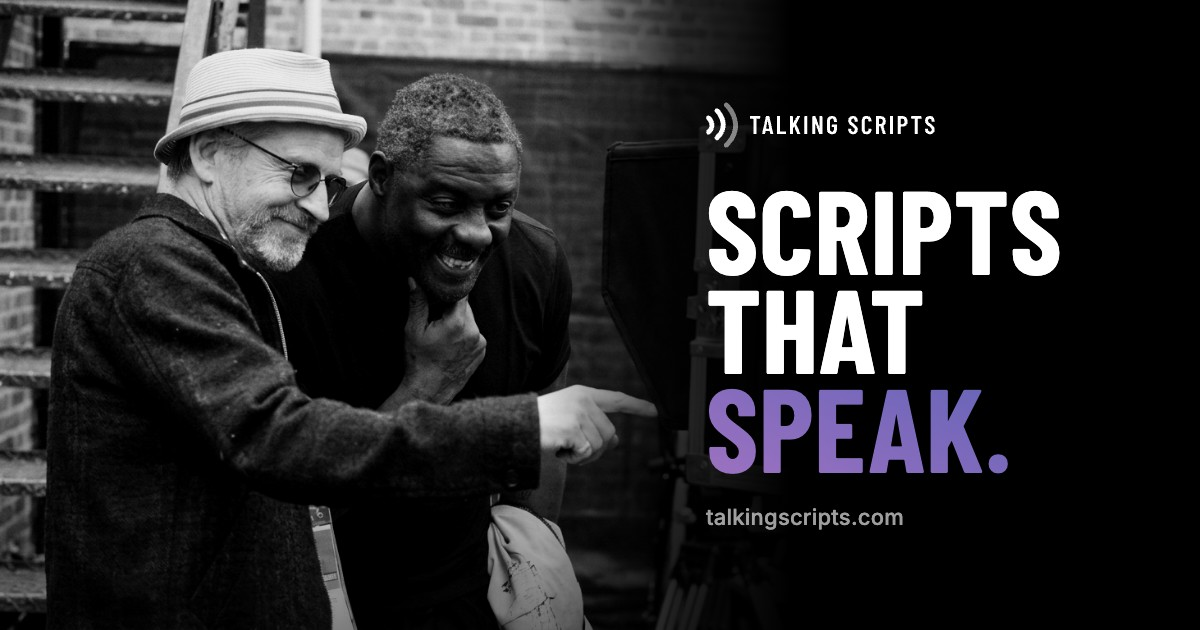
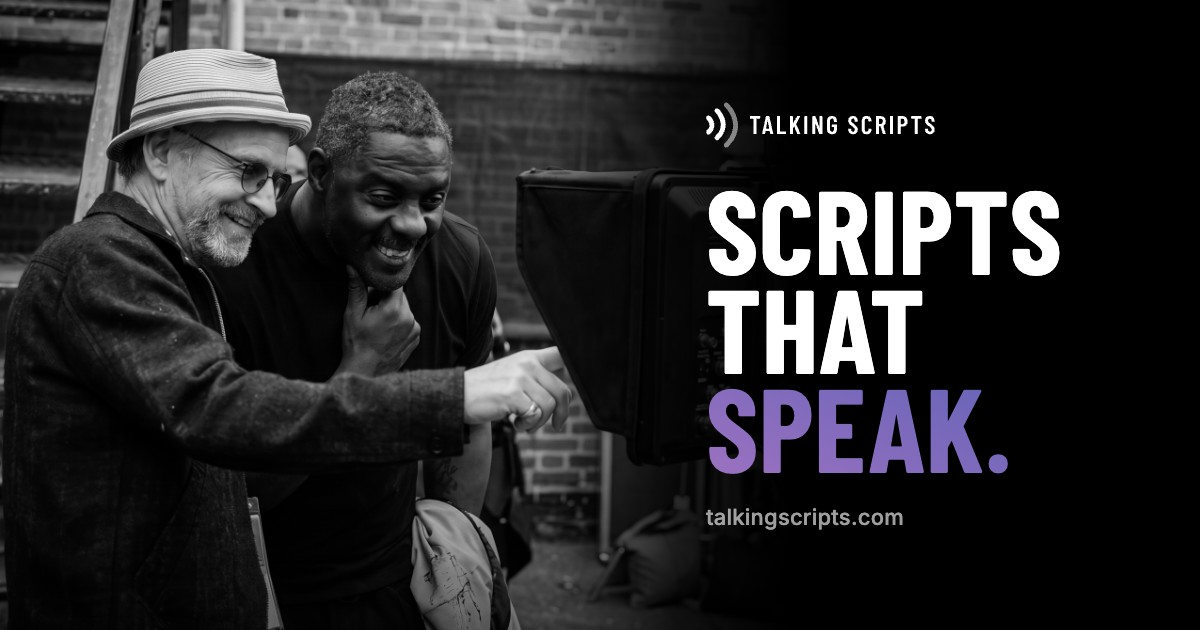
Use the final full-resolution Stefan and Idris photo
- About: the final black-and-white photo at 2880 px (plus 1440 px for smaller
  screens), replacing the 1376 px copy.
- Share card rebuilt from the same photo.

diff --git a/marketing-website/README.md b/marketing-website/README.md
@@ -24,7 +24,7 @@ When a file is replaced, commit it under a new name or bump the pinned commit in
 | `demo-audio/` | The Try it out demo's Voice+ clips: one MP3 per line for each voice, in a folder per voice. Generated by `scripts/generate-demo-audio.mjs` in the site repo, which also deletes clips no longer used. Don't edit them by hand. |
 | `posters/` | Key art for the "Trusted on set" wall |
 | `how-it-works/` | Carousel screens: phone cut-outs (`how-*.webp`) and the full art used as blurred backdrops (`how-*-backdrop.webp`) |
-| `about/` | `duo-on-set-noir-1376.webp`: Stefan and Idris on set in black and white, full bleed behind About. `portrait-*.webp` are the earlier founder portraits, no longer used. |
+| `about/` | `duo-on-set-noir-2880.webp` (plus a 1440 px version): Stefan and Idris on set in black and white, full bleed behind About. `portrait-*.webp` are the earlier founder portraits, no longer used. |
 
 ## Still to replace
 
